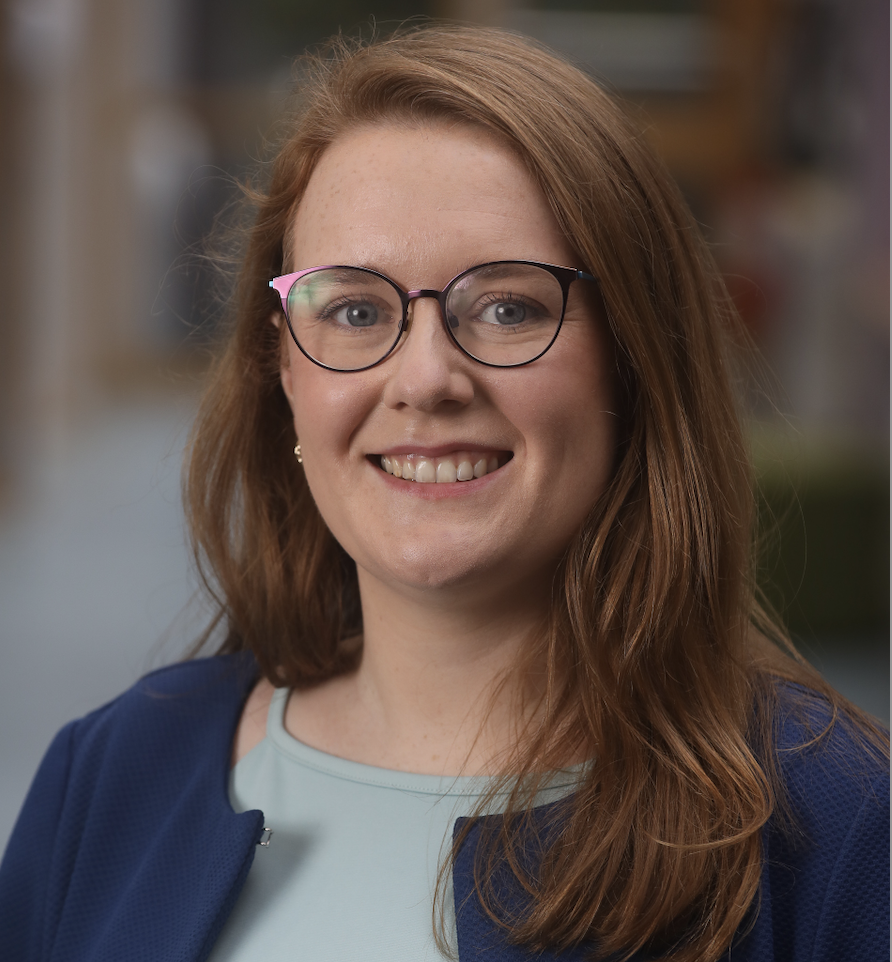
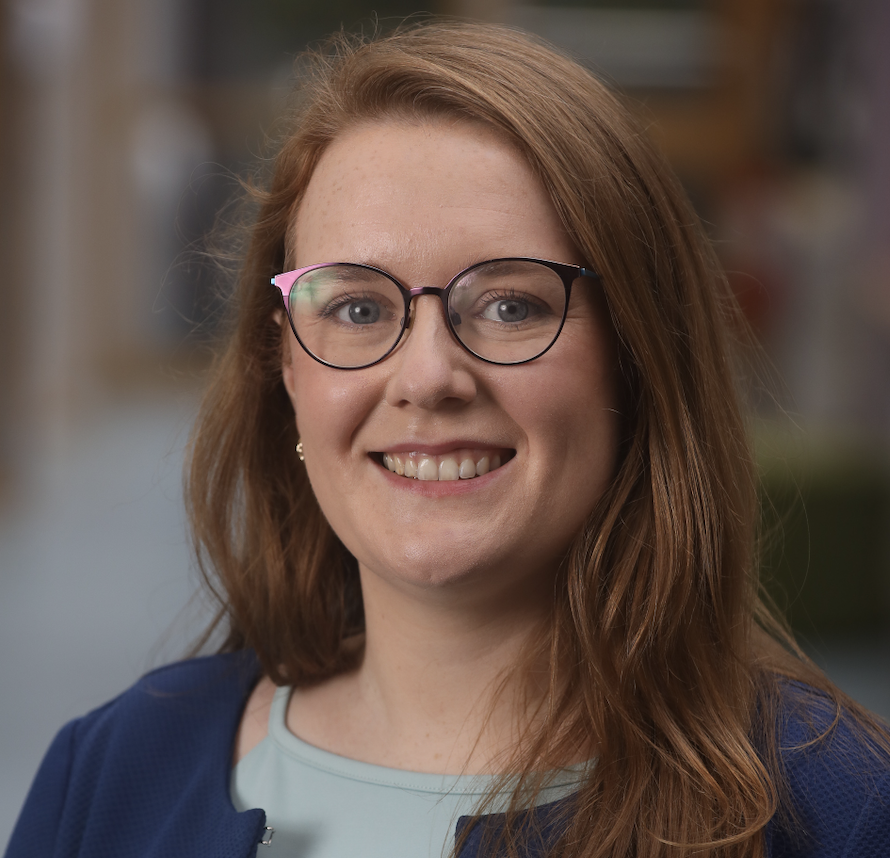
updating images and contact, governance page

diff --git a/governance/index.html b/governance/index.html
@@ -104,14 +104,14 @@
         </div>
     </nav>
   
-    <section class="section pt-55 is-centre">
+    <section class="section pt-55 is-centered">
         <div class="container content has-text-grey-darker">
-            <div class="columns is-centre" id="column1">
+            <div class="columns is-centered" id="column1">
                 <div class="column is-three-quarters pr-3-desktop">
-                  <div class="columns mt-55 is-centre">
+                  <div class="columns mt-55 is-centered">
                     <div class="column has-text-left">
                       <div class="bordered min-height-100">
-                        <h3>The work of GDI Ireland is overseen by an expert steering committee.</h3>
+                            <h3>The work of GDI Ireland is overseen by an expert steering committee.</h3>
                         
                         <h2>Steering Committee Members</h2>
                         
@@ -124,22 +124,22 @@
                             <tr>
                                 <td>Gianpiero Cavalleri</td>
                                 <td>Professor of Human Genetics, Deputy Director, FutureNeuro</td>
-                                <td>Royal College of Surgeons Ireland (RCSI)</td>
+                                <td>Royal College of Surgeons Ireland</td>
                             </tr>
                             <tr>
                                 <td>Aedin Culhane</td>
                                 <td>Professor of Cancer Genomics</td>
-                                <td>University of Limerick (UL)</td>
+                                <td>University of Limerick</td>
                             </tr>
                             <tr>
                                 <td>Markus Helfert</td>
                                 <td>Professor of Digital Service Innovation, Director of Innovation Value Institute and EMPOWER</td>
-                                <td>Maynooth University (MU)</td>
+                                <td>Maynooth University</td>
                             </tr>
                             <tr>
-                                <td>Prof. Denis Shields</td>
+                                <td>Denis Shields</td>
                                 <td>Professor of Clinical Bioinformatics, Director of UCD Bioinformatics Sector</td>
-                                <td>University College Dublin (UCD)</td>
+                                <td>University College Dublin</td>
                             </tr>
                             <tr>
                                 <td>Deirdre McNamara</td>
@@ -148,7 +148,7 @@
                             </tr>
                             <tr>
                                 <td>Caroline Cahill</td>
-                                <td>Deputy Delivery Director for Acute Hospital</td>
+                                <td>Deputy Delivery Director for Acute Hospitals</td>
                                 <td>Office of the Chief Information Officer, Health Service Executive (HSE)</td>
                             </tr>
                             <tr>
@@ -158,43 +158,43 @@
                             </tr>
                             <tr>
                                 <td>Margaret Cuddigan</td>
-                                <td>PPI representative</td>
-                                <td>PPI representative</td>
+                                <td>PPI contributor</td>
+                                <td>PPI contributor</td>
                             </tr>
                             <tr>
                                 <td>Nuala Ryan</td>
-                                <td>PPI representative</td>
-                                <td>PPI representative</td>
+                                <td>PPI contributor</td>
+                                <td>PPI contributor</td>
                             </tr>
                             <tr>
                                 <td>James O’Byrne</td>
                                 <td>Consultant Metabolic Physician and Consultant Clinical Geneticist</td>
-                                <td>Mater Hospital</td>
+                                <td>Mater Misericordiae University Hospital</td>
                             </tr>
                             <tr>
                                 <td>Derick Mitchell</td>
                                 <td>CEO</td>
-                                <td>Irish Platform for Patient Organizations, Science and Industry (IPPOSI)</td>
+                                <td>Irish Platform for Patient Organizations, Science and Industry</td>
                             </tr>
                             <tr>
                                 <td>Avril Kennan</td>
                                 <td>CEO</td>
-                                <td>Health Research Charities Ireland (HRCSI)</td>
+                                <td>Health Research Charities Ireland</td>
                             </tr>
                             <tr>
                                 <td>Cathal Seoighe</td>
-                                <td>Prof. of Bioinformatics</td>
+                                <td>Professor of Bioinformatics</td>
                                 <td>University of Galway</td>
                             </tr>
                             <tr>
                                 <td>Shane McKee</td>
                                 <td>Consultant in Genetic Medicine</td>
-                                <td>Belfast HSC Trust</td>
+                                <td>Belfast Health and Social Care Trust</td>
                             </tr>
                             <tr>
                                 <td>Laura Whelan</td>
                                 <td>Programme Manager</td>
-                                <td>Royal College of Surgeons Ireland (RCSI)</td>
+                                <td>Royal College of Surgeons Ireland</td>
                             </tr>
                         </table>
                         

diff --git a/team/index.html b/team/index.html
@@ -210,12 +210,32 @@
                             <img src="images/MH.png" alt="Professor Markus Helfert"  class="rounded-image">
                             <div class="container">
                               <h2>Professor Markus Helfert</h2>
-                              <p class="title">Professor for Digital Service Innovation</p>
+                              <p class="title">Professor of Digital Service Innovation</p>
                               <button  class="modern-button">Biography</button>
                               <div class="collapsible_content">
                                 <p>Markus Helfert is Professor in Digital Service Innovation at Maynooth University, Innovation Value Institute (Ireland) and the Director of the Business Informatics Group at Maynooth University. He is a Principle Investigator at Lero – The Irish Software Research Centre and at the Adapt Research Centre. His research is centred on Digital Service Innovation, Smart Cities and IoT based Smart Environments and includes research areas such as Service Innovation, Intelligent Transportation Systems, Smart Services, Building Information Management, FinTech, Data Value, Enterprise Architecture, Technology Adoption, Analytics, Business Process Managem ent. Prof. Helfert is an expert in Data Governance Standards and is involved in European Standardisation initiatives. Markus Helfert has authored more than 200+ academic articles, journal and book contributions and has presented his work at international conferences. Helfert has received national and international grants from agencies such as European Union (FP7; H2020), Science Foundation Ireland and Enterprise Ireland, was project coordinator on EU projects, and is the Project coordinator of the H2020 Projects: PERFORM on Digital Retail.</p>
                               </div>
                               
+                            </div>
+                          </div>
+                        </div>
+
+                        <div class="column">
+                          <div class="card">
+                            <img src="images/DM.jpeg" alt="Denise Manton"  class="rounded-image">
+                            <div class="container">
+                              <h2>Denise Manton</h2>
+                              <p class="title">Executive Director of Empower - Data Governance Research Programmen</p>
+                              <button  class="modern-button">Biography</button>
+                              <div class="collapsible_content">
+                                <p>Denise is the Executive Director for Empower, the data governance research programme. She drives the long-term strategic planning of this multi-million Euro research programme.
+
+                                  Denise is also the CEO and Co-founder of Cadova Health, an AI based medtech start-up focused on early detection of breast cancer. Cadova Health is a Lero and University of Limerick spin-out co-founded with Prof. Conor Ryan, Director of the Biocomputing and Developmental Systems (BDS) Group @ UL.
+                                  
+                                  She has also held senior management roles focused on business development and commercialization in Lero, the world leading Science Foundation Ireland Research Centre for Software and was formerly Technology Gateway Manager in Walton Institute, an ICT research centre and prior to that held senior management and engineering roles in the technology and life sciences sectors. 
+                                  
+                                  Denise has 20+ years of multi-disciplinary experience with a focus on innovation driven technology and digital transformation initiatives both in industry and in academic research environments, operating at various levels from engineering to senior management.</p>
+                              </div>
                             </div>
                           </div>
                         </div>
@@ -237,7 +257,7 @@
 
                         <div class="column">
                           <div class="card">
-                            <img src="images/SC.png" alt="Dr Siobhán Cleary" class="rounded-image" >
+                            <img src="images/SC.png" alt="Dr Siobhán Cleary" class="rounded-image">
                             <div class="container">
                               <h2>Dr Siobhán Cleary</h2>
                               <p class="title">Genomics Research Training Manager</p>

diff --git a/css/styles.css b/css/styles.css
@@ -7976,9 +7976,6 @@ figure.is-pulled-right {
   */
 @media only screen and (max-width: 700px) {
 
-  #logo2 {
-    position: left;
-  }
   table,
   thead,
   tbody,
@@ -8158,9 +8155,6 @@ span[data-tooltip] {
   */
 @media only screen and (min-width: 1024px) {
 
-  #logo2 {
-    position: left;
-  padding-top: 50px; }
 
   .navbar {
     padding: 10px 500px 10px 10px; }
@@ -8171,7 +8165,7 @@ span[data-tooltip] {
 
   #mainNavBar {
     position: absolute;
-    left: 500px;
+    left: 400px;
     bottom: 50px;
   }
 
